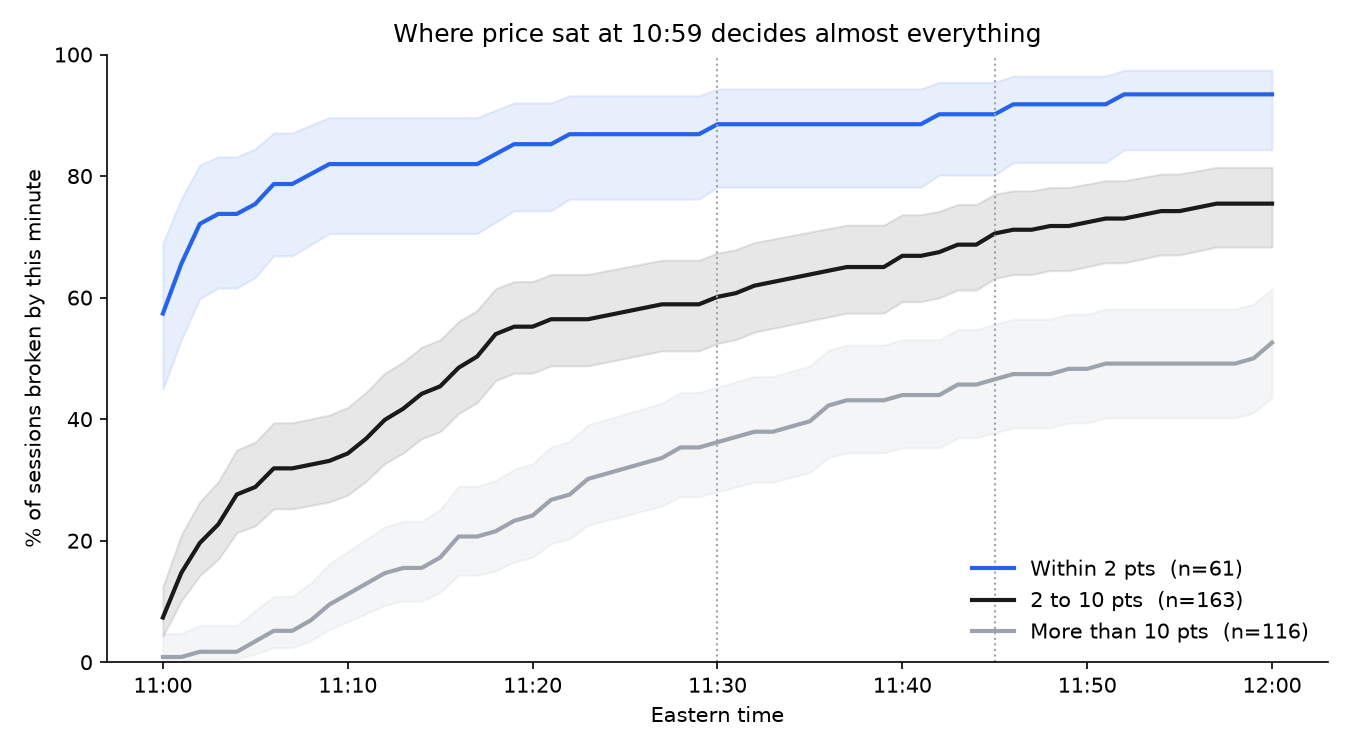
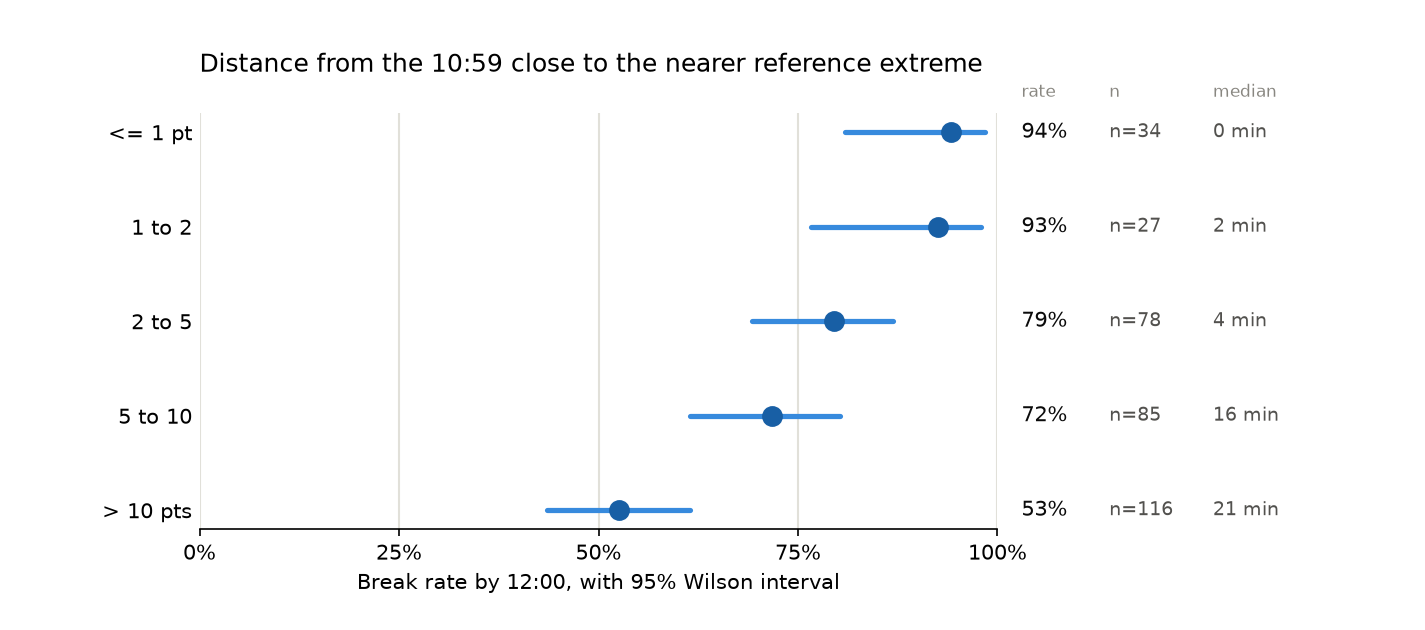
Add README, median_minutes.py, and the distance figure

diff --git a/src/chart.py b/src/chart.py
@@ -125,6 +125,75 @@ def chart_by_distance(table, grid, path):
     plt.close(fig)
 
 
+def chart_by_distance(strata, medians, path):
+    """Dot-and-interval plot of break rate by distance band.
+
+    strata  : DataFrame read from output/distance_strata.csv, one row per band
+    medians : DataFrame from median_minutes.main(), same bands in the same order
+
+    Bands are matched by position, not by label, because the two files were
+    written by different modules and their label text need not agree.
+    """
+    if len(strata) != len(medians):
+        raise ValueError("strata and medians must cover the same bands in the same order")
+
+    labels = list(strata["band"])
+    rate = list(strata["rate"])
+    lo = list(strata["lo"])
+    hi = list(strata["hi"])
+    counts = list(strata["n"])
+    median_min = list(medians["median_min"])
+
+    if max(rate) > 1.5:
+        rate = [v / 100 for v in rate]
+        lo = [v / 100 for v in lo]
+        hi = [v / 100 for v in hi]
+
+    positions = list(range(len(labels)))
+
+    fig, ax = plt.subplots(figsize=(9.5, 4.2))
+
+    for y in positions:
+        ax.plot([lo[y], hi[y]], [y, y], color="#378ADD",
+                linewidth=2.5, solid_capstyle="round", zorder=1)
+        ax.plot([rate[y]], [y], marker="o", markersize=9,
+                color="#185FA5", zorder=2)
+
+    for y in positions:
+        ax.text(1.03, y, f"{rate[y]:.0%}", transform=ax.get_yaxis_transform(),
+                va="center", ha="left", fontsize=10, color="#0B0B0B")
+        ax.text(1.14, y, f"n={counts[y]}", transform=ax.get_yaxis_transform(),
+                va="center", ha="left", fontsize=9, color="#52514E")
+        ax.text(1.27, y, f"{median_min[y]:.0f} min", transform=ax.get_yaxis_transform(),
+                va="center", ha="left", fontsize=9, color="#52514E")
+
+    ax.text(1.03, 1.04, "rate", transform=ax.transAxes, fontsize=8, color="#898781")
+    ax.text(1.14, 1.04, "n", transform=ax.transAxes, fontsize=8, color="#898781")
+    ax.text(1.27, 1.04, "median", transform=ax.transAxes, fontsize=8, color="#898781")
+
+    ax.set_yticks(positions)
+    ax.set_yticklabels(labels)
+    ax.invert_yaxis()
+    ax.tick_params(axis="y", length=0)
+
+    ax.set_xlim(0, 1)
+    ax.set_xticks([0, 0.25, 0.5, 0.75, 1.0])
+    ax.set_xticklabels(["0%", "25%", "50%", "75%", "100%"])
+    ax.set_xlabel("Break rate by 12:00, with 95% Wilson interval")
+
+    ax.grid(axis="x", color="#E1E0D9", linewidth=1)
+    ax.set_axisbelow(True)
+    for side in ("top", "right", "left"):
+        ax.spines[side].set_visible(False)
+
+    ax.set_title("Distance from the 10:59 close to the nearer reference extreme",
+                 loc="left", pad=20)
+
+    fig.subplots_adjust(left=0.14, right=0.70, top=0.82, bottom=0.16)
+    fig.savefig(path, dpi=150)
+    plt.close(fig)
+
+
 if __name__ == "__main__":
     table = pd.read_csv("output/session_features.csv")
     grid = minute_grid()
@@ -132,5 +201,9 @@ if __name__ == "__main__":
     chart_cumulative(table, grid, "output/fig1_cumulative.png")
     chart_hazard(table, grid, "output/fig2_hazard.png")
     chart_stability(table, grid, "output/fig3_stability.png")
-    chart_by_distance(table, grid, "output/fig4_by_distance.png")
+    from median_minutes import main as median_minutes_table
+
+    strata = pd.read_csv("output/distance_strata.csv")
+    medians = median_minutes_table()
+    chart_by_distance(strata, medians, "output/fig4_by_distance.png")
     print("wrote 3 figures to output/")

diff --git a/src/median_minutes.py b/src/median_minutes.py
@@ -1,0 +1,52 @@
+"""Median time to break, by distance band.
+
+Reads output/session_features.csv rather than rebuilding it, so this is a
+throwaway probe. Folded into stats.py only if the numbers are worth charting.
+"""
+
+import pandas as pd
+
+BANDS = [(0, 1), (1, 2), (2, 5), (5, 10), (10, float("inf"))]
+BAND_LABELS = ["<= 1 pt", "1 - 2 pt", "2 - 5 pt", "5 - 10 pt", "> 10 pt"]
+
+
+def minutes_past_eleven(hhmm):
+    if pd.isna(hhmm) or hhmm == "":
+        return None
+    hours, minutes = str(hhmm).split(":")
+    return (int(hours) - 11) * 60 + int(minutes)
+
+
+def band_of(distance):
+    for label, (low, high) in zip(BAND_LABELS, BANDS):
+        if (low == 0 and distance <= high) or (low < distance <= high):
+            return label
+    return None
+
+
+def main(path="output/session_features.csv"):
+    df = pd.read_csv(path)
+    df["nearest_distance"] = df[["dist_to_ref_high", "dist_to_ref_low"]].min(axis=1)
+    df["band"] = df["nearest_distance"].apply(band_of)
+    df["minutes_to_break"] = df["first_break_minute"].apply(minutes_past_eleven)
+
+    rows = []
+    for label in BAND_LABELS:
+        group = df[df["band"] == label]
+        broke = group[group["minutes_to_break"].notna()]
+        rows.append({
+            "band": label,
+            "n": len(group),
+            "broke": len(broke),
+            "median_min": broke["minutes_to_break"].median(),
+            "q25_min": broke["minutes_to_break"].quantile(0.25),
+            "q75_min": broke["minutes_to_break"].quantile(0.75),
+        })
+
+    table = pd.DataFrame(rows)
+    print(table.to_string(index=False))
+    return table
+
+
+if __name__ == "__main__":
+    main()

diff --git a/README.md b/README.md
@@ -1,14 +1,128 @@
-# ES New-Extreme Probability Study
+# Time to a New Session Extreme
 
-How often does ES make a new session extreme between
-11:00 and 12:00 Eastern, relative to the extreme set
-between 09:30 and 10:59?
+How often does ES make a new session extreme between 11:00 and 12:00 Eastern, relative to the extreme set between 09:30 and 10:59? And when it happens, when does it happen?
 
-Status: in progress.
+## Result
 
-## Data
+Across 340 regular-hours sessions, 241 made a new extreme before 12:00. That's 70.9%, with a 95% Wilson interval of 65.8 to 75.5.
 
-Not included. Source data is 1-minute CME market data
-exported from Sierra Chart under a license that restricts
-redistribution. This repository contains code, methodology,
-and computed results only.
+| Cutoff | Sessions | Rate | 95% CI |
+|---|---|---|---|
+| 11:30 | 194 | 57.1% | 51.7–62.2 |
+| 11:45 | 224 | 65.9% | 60.7–70.7 |
+| 12:00 | 241 | 70.9% | 65.8–75.5 |
+
+Of the 241 breaks, 187 went in the same direction as the prevailing move and 54 against it.
+
+### When it happens
+
+![Break rate within each five-minute block, among sessions not yet broken](output/fig2_hazard.png)
+
+Each bar covers five minutes. Its height is the share of sessions that broke during that block, counted only among sessions that were still unbroken when the block started. That denominator is the whole point: by 11:40 most sessions have already broken and left the pool, so a bar height of 5% means 5% of what remained, not 5% of 340.
+
+The shape is a decay, from 16.8% in the first block to around 5% at the end. Read plainly: the longer a session goes without making a new extreme, the less likely it becomes that it will make one before 12:00. Waiting does not improve the odds. That is the opposite of how a pending move usually feels, and it is the single most useful thing in this repository.
+
+The median break lands 11 minutes past 11:00, with a quartile range of 1 to 24 minutes. Half the action is over in the first eleven minutes of the window.
+
+### Where price is standing when the window opens
+
+![Break rate by distance from the 10:59 close to the nearer reference extreme](output/fig4_by_distance.png)
+
+Five rows, one per distance band. The dot is the measured break rate for that band. The line is its 95% confidence interval: the range of underlying rates that could plausibly have produced what was observed. The numbers on the right are the rate, the number of sessions in the band, and the median minutes to break among the ones that broke.
+
+To use it: at 10:59, measure the distance from the close to whichever reference extreme is nearer. That number puts you in a row, and the row gives a probability with its uncertainty attached.
+
+Two cautions on reading it. Where two lines overlap, the bands are not distinguishable with this much data — the top two rows are an example, and no claim should be made that one is better than the other. And where a line is long, the estimate is weak; line length is driven by how many sessions are in the band.
+
+| Distance at 10:59 | n | Break rate by 12:00 | 95% CI | Median minutes to break |
+|---|---|---|---|---|
+| ≤ 1 pt | 34 | 94.1% | 80.9–98.4 | 0 |
+| 1–2 pts | 27 | 92.6% | 76.6–97.9 | 2 |
+| 2–5 pts | 78 | 79.5% | 69.2–87.0 | 4.5 |
+| 5–10 pts | 85 | 71.8% | 61.4–80.2 | 16 |
+| > 10 pts | 116 | 52.6% | 43.6–61.4 | 21 |
+
+Monotonic across all five bands: every step further away lowers the rate and raises the time.
+
+The top two rows are close to arithmetic rather than a finding. Within a point of the level, three quarters of sessions break inside the 11:00 bar itself — which is what a level already sitting inside the next bar's range will do. The informative part is the bottom three rows, where the rate falls from 80% to 53% as the median break time climbs from 4.5 minutes to 21.
+
+## The result I don't trust at face value
+
+77.6% of breaks went with the prevailing direction, which looks like direction predicts breaks. This data cannot show that.
+
+The with-trend extreme was the nearer one in 79.1% of sessions. That is almost exactly the 77.6% figure, and it has a simpler explanation: breaks go with trend because the with-trend level is closer, not because direction carries information. The two explanations produce the same number, and nothing in the number separates them.
+
+Separating them needs a comparison within narrow distance bands, where with-trend and counter-trend levels sit the same distance away. At 340 sessions there are 26 such matched pairs within 3 points, which is not enough to conclude anything. That is the first item in the next phase.
+
+## Method
+
+Each session either breaks at a known minute or reaches 12:00 without breaking. That structure is a discrete-time survival analysis: the 99 non-breaking sessions are right-censored and stay in every denominator, the cumulative curve is a cumulative incidence function, and the five-minute chart is a discrete-time hazard rate. The two-window design — 09:30–10:59 to establish a reference, 11:00–12:00 to measure against it — is the standard event-study structure from empirical finance.
+
+### Pre-registration
+
+Thresholds and predicted rates were written to `notes/prediction.md` and committed before any statistics ran, so the commit timestamp is verifiable. Of the two pre-registered predictions, one passed and one was inconclusive.
+
+At least 80% of sessions within 2 points would break: **passed**, lower bound 84.3%.
+
+At least 50% beyond 10 points: **inconclusive**. Point estimate 52.6%, but the interval runs 43.6 to 61.4 and straddles the floor, so the test cannot resolve it at this sample size.
+
+### Stability
+
+![Break rate in the first 170 sessions compared with the last 170](output/fig3_stability.png)
+
+Two estimates of the same quantity, computed on the first half of the sample and the second half, each with its interval. The question is whether the headline number describes the market or just describes the particular sixteen months it was measured in. First 170 sessions: 72.4% (65.2–78.5). Last 170: 69.4% (62.1–75.8).
+
+The intervals overlap heavily, so I am treating this as one regime rather than two. Worth stating precisely: overlapping intervals are an absence of evidence for a split, not evidence that no split exists. With 170 sessions a side, only a large shift would show up here.
+
+### Validation
+
+Ten sessions were drawn at random with a fixed seed and checked by eye against the charting platform: reference high and its minute, reference low and its minute, and the minute of the first break. All ten agreed with the code. The record is in `output/hand_validation.md`.
+
+## Limitations
+
+The sample is 340 sessions over about sixteen months. That is enough for the headline rate and for the with-trend and counter-trend split. It is not enough for anything stratified two ways at once, and not enough to resolve whether direction matters independently of distance.
+
+Distance is measured in index points, which conflates a close level on a wide-range day with a far level on a narrow one. A range-normalized version is planned.
+
+Breaks use `>=` and `<=`, so trading exactly at the prior extreme counts as a break. That was chosen before results were examined, and the strict-inequality variant was not tested.
+
+Only the first break in each session is recorded. A session that breaks the high at 11:04 and the low at 11:40 appears once.
+
+## Running it
+
+One-time setup:
+
+```
+python -m venv .venv
+source .venv/Scripts/activate
+pip install pandas numpy matplotlib
+```
+
+Then run the modules in order. Each depends on the output of the one before it.
+
+```
+python src/load.py
+python src/sessions.py
+python src/features.py
+python src/stats.py
+python src/chart.py
+python src/validate.py
+```
+
+The raw price data is not in this repository. Exchange licensing restricts redistribution of market data, so the code is published and the input is not. `notes/data_dictionary.md` documents the expected format. The code looks for `data/raw/ES_1min_RTH_500d.txt`.
+
+## Contents
+
+| Path | What it holds |
+|---|---|
+| `src/` | Loading, session construction, features, statistics, charts, validation |
+| `output/` | Computed results and figures |
+| `notes/data_dictionary.md` | Column definitions and conventions |
+| `notes/prediction.md` | Pre-registered thresholds, dated |
+| `notes/project-map.md` | Scope, definitions, phases |
+
+`output/fig1_cumulative.png` is the cumulative version of the hazard chart — the running total of sessions broken by each minute, split by direction. It is in the repository for completeness. The hazard chart above answers the same question more usefully.
+
+## Disclosure
+
+This is probability estimation on self-exported market data. It is not financial advice and not a recommendation to trade. Historical frequencies are not predictions.
